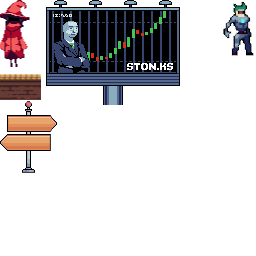
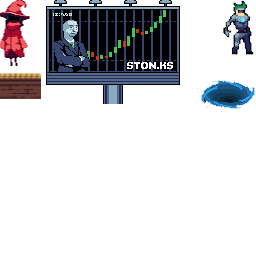
Début de la deuxième quête d'exploration + création de la dimension Mine

diff --git a/main.py b/main.py
@@ -3,7 +3,6 @@ from deplacement import deplacement_x
 from quests import interact, launch_quest
 from get_jsondata import get_quests, get_player, get_spells, get_pnj
 from write import changeJson
-from random import randint
 
 run_sprite = [(48, 0, 38, 58), (88, 0, 29, 56), (120, 0, 32, 56),
               (152, 0, 33, 50), (192, 0, 43, 51), (0, 64, 31, 51)]
@@ -23,7 +22,6 @@ pyxel.load("ressources.pyxres")
 pyxel.colors.from_list(pal)
 
 #Définition de toutes les variables pour les mettre dans la fonction draw
-
 showed = False
 perso_x = 0
 y = 169
@@ -52,7 +50,6 @@ def update():
   state = ""
   quest_list = get_quests()
   dimension = get_player()["dimension"]
-  
 
   questNumber = get_player()['questNumber']
   
@@ -69,9 +66,25 @@ def update():
 
   dimension = get_player()["dimension"]
   pnj_list = get_pnj(dimension)
+  if (pyxel.btnr(pyxel.KEY_SPACE) and is_jumping == False and is_descending == False and input_text == ""):
+    is_jumping = True
+  
+  if (y >= 149 and is_jumping == True):
+    y -= 2
+  elif (is_descending == True and y <= 169):
+    y += 2
+  elif (y <= 149):
+    is_descending = True
+    is_jumping = False
+  else:
+    is_descending = False
+    is_jumping = False
+  
+  return y
 
   pyxel.images[2].load(0,0,"assets/" + dimension + "_assets.png")
   pyxel.images[1].load(0,0,"assets/"+ dimension + ".png")
+
   if perso_x > scroll_x + SCROLL_BORDER_X and direction == 1:
     scroll_x += 3
   elif perso_x < SCROLL_BORDER_X:
@@ -84,10 +97,9 @@ def update():
       character_name = elt["name"]
       position_x = elt["position_x"]
       is_inside[character_name] = interact(perso_x, position_x)
-
-  if(is_inside[characters_quest] == True and objective == "dialog"):
+  if(characters_quest != "" and objective == "dialog" and is_inside[characters_quest] == True ):
     original_dialog = deploy[secondQuestNumber]["dialog"]
-    if(i == len(original_dialog) ):
+    if(i == len(original_dialog)):
       if(correct_index == index or correct_index == ""):
         if subcharacter == "" or subcharacter == "true":
           if(quest_list[int(questNumber)]["deploy"][secondQuestNumber] == quest_list[int(questNumber)]["deploy"][-1]):
@@ -102,6 +114,7 @@ def update():
             dialog = ""
             input_text = ""
             index = None
+            i = 0
           else:
             dialog = ""
             i = 0
@@ -163,20 +176,7 @@ def update():
     if(pyxel.btnr(pyxel.KEY_E)):
       game_launched = True
 
-  if (pyxel.btnr(pyxel.KEY_SPACE) and is_jumping == False and is_descending == False and input_text == ""):
-    is_jumping = True
 
-    
-  elif (y >= 149 and is_jumping == True):
-    y -= 2
-  elif (is_descending == True and y <= 169):
-    y += 2
-  elif (y <= 149):
-    is_descending = True
-    is_jumping = False
-  else:
-    is_descending = False
-    is_jumping = False
 
 
 def draw():
@@ -185,7 +185,54 @@ def draw():
     pyxel.text(100, 10, "Ethereal Odyssey", 12)
     pyxel.text(40,100,"Press [E] to play (full screen highly recommended)", 12)
   else:
-    if dimension == "ethereum":
+    if dimension == "mine":
+      pyxel.camera(scroll_x, 0)
+      pyxel.cls(0)
+      pyxel.tilemaps[0].load(0,0,"assets/mine.tmx",0)
+      pyxel.bltm(0,0,0,0,0,256,256)
+      for i in range(10):
+        pyxel.blt(256*i, 0, 1, 0,0,256,256)
+
+      for elt in pnj_list:
+        if(type(elt["location_x"]) != list):
+          pyxel.blt(elt["position_x"], elt["position_y"], elt["image_bank"], elt["location_x"], elt["location_y"], elt["size_x"], elt["size_y"], 21)
+
+          if (elt["interactable"] == True and is_inside[elt["name"]] == True and elt["name"] == characters_quest):
+            pyxel.text(elt["position_x"]-20, 140, "Press [E] to interact", 21)
+
+
+  #Animation
+      if (animation == "run" and is_jumping == False):
+        coef = pyxel.frame_count // 5 % 5
+        pyxel.blt(perso_x, y, 0, run_sprite[coef][0], run_sprite[coef][1],
+                  run_sprite[coef][2] * direction, run_sprite[coef][3], 0)
+      elif (animation == "fireball" and is_jumping == False):
+        coef = pyxel.frame_count // 4 % 4
+        pyxel.blt(perso_x, y, 0, fireball_sprite[coef][0], fireball_sprite[coef][1],
+                  fireball_sprite[coef][2], fireball_sprite[coef][3], 0)
+      elif (y != 150 and is_jumping == True):
+        coef = pyxel.frame_count // 6 % 6
+        pyxel.blt(perso_x, y, 0, jump_sprite[coef][0], jump_sprite[coef][1],
+                  jump_sprite[coef][2] * direction, jump_sprite[coef][3], 0)
+      else:
+        pyxel.blt(perso_x, y, 0, 0, 0, 24*direction, 58, 0)
+
+      if character != "" and dialog != {} and dialog != "" and is_inside[characters_quest]: 
+        if(type(dialog[character]) == list):
+          pyxel.rect(scroll_x,170,500,100,23)
+          pyxel.text(scroll_x + 20,185,character.split("_")[0], 21)
+          for i in range(len(dialog[character])):
+            pyxel.text(scroll_x + 20,200+i*10,dialog[character][i]["Me_t1"], 21)
+        else:
+          pyxel.rect(scroll_x,170,500,100,23)
+          pyxel.text(scroll_x + 20,185,character.split("_")[0], 21)
+          pyxel.text(scroll_x + 20,215,dialog[character],21)
+          pyxel.text(scroll_x + 400, 230, "Press [J] to continue", 21)
+    
+      pyxel.rect(scroll_x + 370, 0, 130, 25, 23)
+      pyxel.text(scroll_x + 380, 5, title, 21)
+      pyxel.text(scroll_x + 380, 15, instruction, 21)
+    elif dimension == "ethereum":
       pyxel.camera(scroll_x, 0)
       pyxel.cls(0)
 
@@ -196,11 +243,10 @@ def draw():
         if(type(elt["location_x"]) != list):
           pyxel.blt(elt["position_x"], elt["position_y"], elt["image_bank"], elt["location_x"], elt["location_y"], elt["size_x"], elt["size_y"], 21)
 
-          if (is_inside[elt["name"]] == True and elt["name"] == characters_quest):
+          if (elt["interactable"] == True and is_inside[elt["name"]] == True and elt["name"] == characters_quest):
             pyxel.text(elt["position_x"]-20, 140, "Press [E] to interact", 21)
       #Démarrage de la quête
-      
-      for i in range(1400):
+      for i in range(100):
         pyxel.blt(41*i,250-21,2,0,74,41,21)
 
       pyxel.blt(200, 0, 2, 47,0,128,100,21)

diff --git a/deplacement.py b/deplacement.py
@@ -3,7 +3,7 @@ import pyxel
 def deplacement_x(perso_x, speed, direction):
   """Prend en compte le x du personnage (integer) et la vitesse (float)
   Renvoie le nouveau x (integer)"""
-  if(pyxel.btn(pyxel.KEY_RIGHT) and perso_x+3*speed < 1500):
+  if(pyxel.btn(pyxel.KEY_RIGHT)):
     perso_x+=3*speed
     animation="run"
     direction=1
